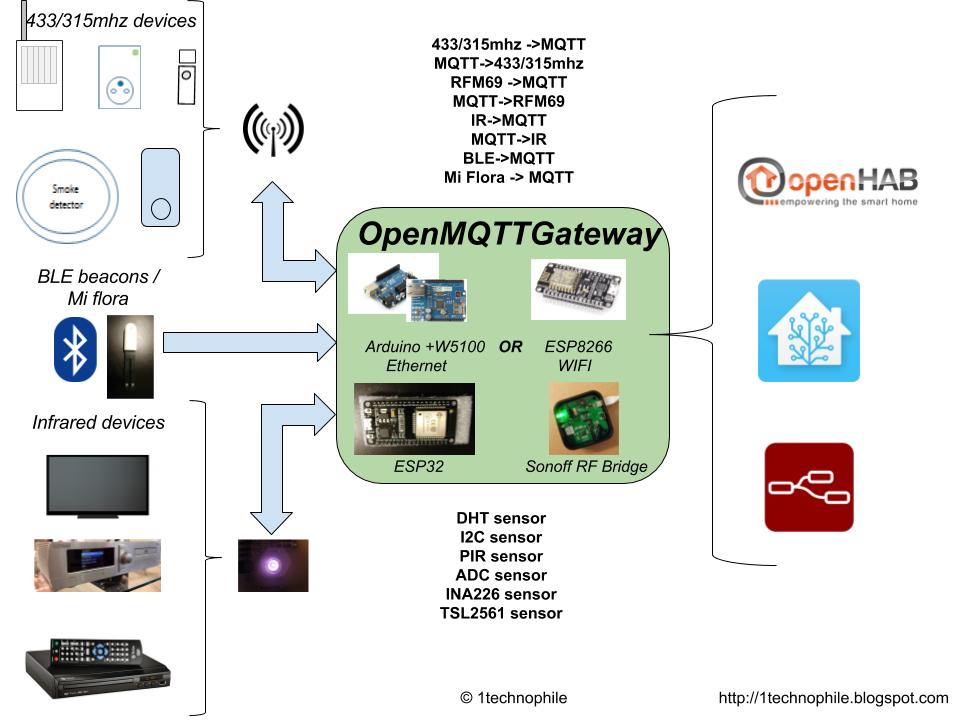
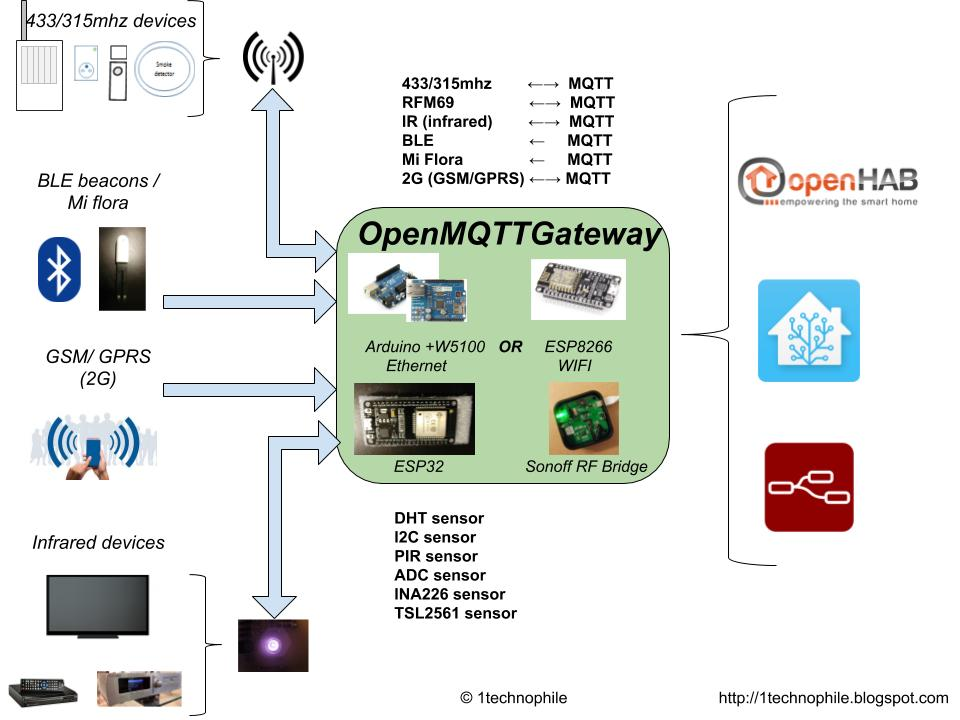
Adding images and one pin definition removal
unnecessary pin definition removal
Adding images to illustrate 2G gateway

diff --git a/config_2G.h b/config_2G.h
@@ -41,6 +41,5 @@
 /*-------------------PIN DEFINITIONS----------------------*/
 #define _2G_TX_PIN D6 //D6 to A6 RX, 
 #define _2G_RX_PIN D7 //D7 to A6 TX
-#define _2G_PWR_PIN D5
-#define _2G_RST_PIN D0
+#define _2G_PWR_PIN D5 // connect a MOSFET to power on and off your A6/7 module
 
